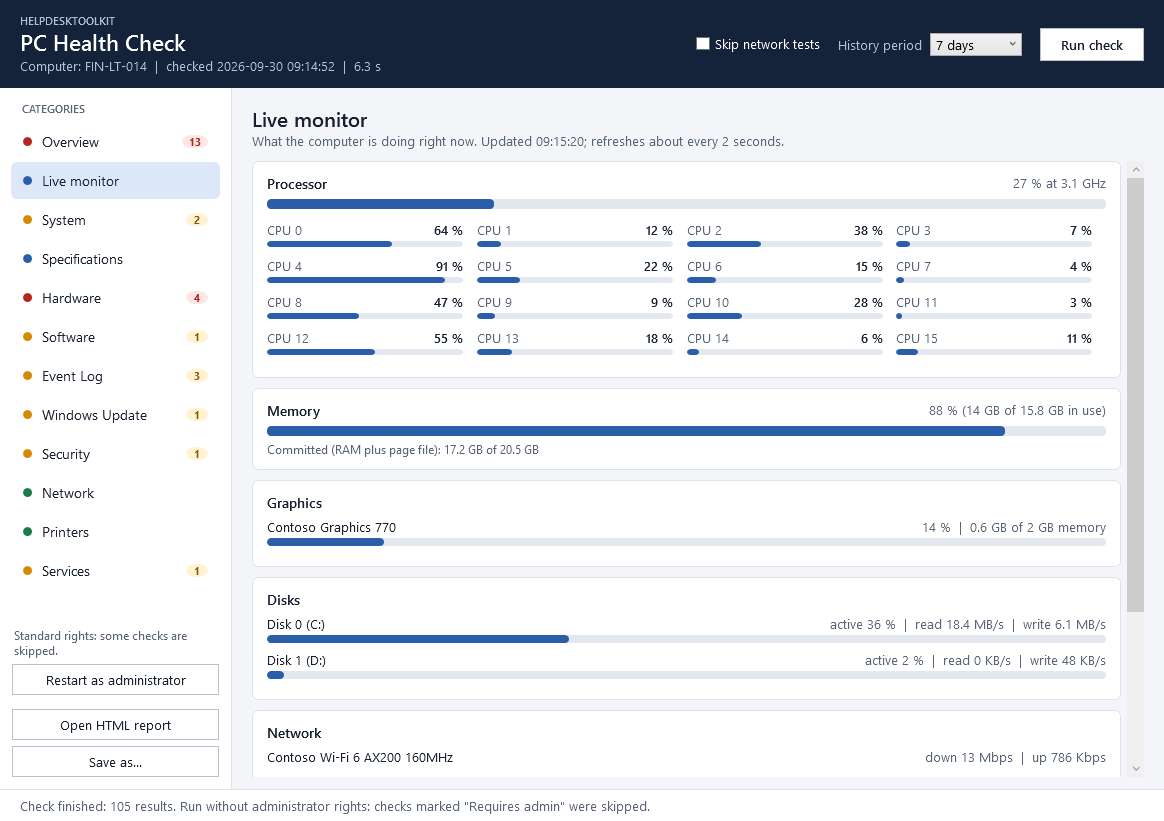
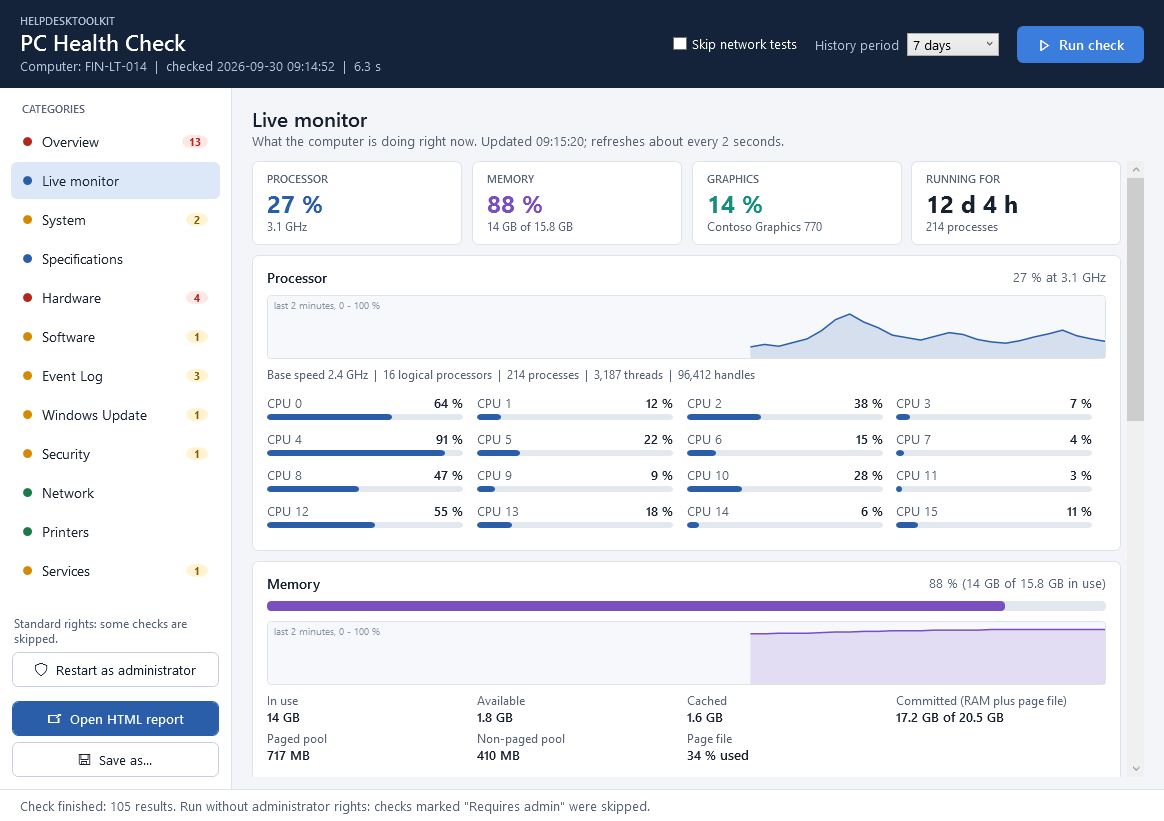
docs: describe the extended Live monitor and update the screenshots

diff --git a/README.hr.md b/README.hr.md
@@ -45,21 +45,39 @@ usporedbu.
 Stranica **Live monitor** u prozoru ne traži provjeru. Prikazuje što računalo radi u
 ovom trenutku i osvježava se otprilike svake dvije sekunde:
 
-- opterećenje svakog logičkog procesora, ukupno opterećenje i trenutni takt
-- zauzeta i rezervirana (committed) memorija
-- opterećenje i memorija grafičke kartice
-- aktivnost te brzina čitanja i pisanja svakog fizičkog diska
-- brzina preuzimanja i slanja svakog mrežnog adaptera
-- programi koji troše najviše procesorskog vremena
+- **Procesor:** ukupno opterećenje s grafom povijesti, takt na kojem stvarno radi
+  (uključujući turbo), opterećenje svakog logičkog procesora, broj procesa, niti i
+  handleova, vrijeme od pokretanja Windowsa
+- **Memorija:** zauzeće s grafom povijesti, dostupna, predmemorirana (cached) i
+  rezervirana (committed) memorija, kernel poolovi, zauzeće page filea
+- **Grafika:** opterećenje s grafom povijesti, opterećenje po engineu (3D, copy, video
+  decode, video encode), vlastita i dijeljena memorija
+- **Diskovi:** aktivnost, brzina čitanja i pisanja te red čekanja svakog fizičkog diska,
+  i zauzeti prostor svakog slova diska (mjerač postaje narančast i crven prema istim
+  pragovima kao provjera prostora na disku)
+- **Mreža:** brzina preuzimanja i slanja te brzina veze svakog adaptera
+- **Senzori:** temperatura, brzina ventilatora i potrošnja NVIDIA grafičkih kartica;
+  termalne zone i baterija na računalima koja ih imaju; temperatura, istrošenost i sati
+  rada diskova\*
+- **Programi:** oni koji troše najviše procesorskog vremena, najviše memorije te čitaju i
+  pišu najviše podataka
+
+\* traži administratorska prava.
 
 ![Stranica Live monitor](docs/screenshot-monitor.png)
 
+![Donja polovica stranice Live monitor](docs/screenshot-monitor-details.png)
+
 Isti podaci dostupni su u skriptama kroz `Get-PerformanceSnapshot`.
 
-Temperature, brzine ventilatora i naponi se ne prikazuju. Windows ih ne daje
-programima; alati koji ih prikazuju instaliraju vlastiti hardverski driver, što ovaj
-alat namjerno ne radi. Iznimka je temperatura diskova: ona je dio detalja diska koji se
-čitaju s administratorskim pravima.
+Odakle dolaze vrijednosti senzora i što namjerno nedostaje:
+
+- Vrijednosti NVIDIA grafičkih kartica čitaju se alatom `nvidia-smi`, koji instalira sam
+  NVIDIA driver. Pokreće se iz Windowsove mape `System32` punom putanjom. Kartice drugih
+  proizvođača nemaju usporediv alat, pa se za njih prikazuju samo opterećenje i memorija.
+- Temperatura procesora, ventilatori matične ploče i naponi se ne prikazuju. Windows ih
+  ne daje programima; alati koji ih prikazuju instaliraju vlastiti hardverski driver, što
+  ovaj alat namjerno ne radi.
 
 ## Administratorska prava
 

diff --git a/README.md b/README.md
@@ -43,21 +43,40 @@ comparison.
 The **Live monitor** page of the window needs no health check. It shows what the
 computer is doing right now and refreshes about every two seconds:
 
-- load of every logical processor, total load and current clock speed
-- memory in use and committed memory
-- load and memory of the graphics adapter
-- activity, read rate and write rate of every physical disk
-- download and upload rate of every network adapter
-- the programs that use the most processor time
+- **Processor:** total load with a history graph, the speed it really runs at (turbo
+  included), load of every logical processor, number of processes, threads and handles,
+  time since Windows started
+- **Memory:** share in use with a history graph, available, cached and committed memory,
+  kernel pools, page file usage
+- **Graphics:** load with a history graph, load per engine (3D, copy, video decode,
+  video encode), dedicated and shared memory
+- **Disks:** activity, read rate, write rate and queue length of every physical disk,
+  and the used space of every drive letter (the meter turns orange and red by the same
+  limits as the disk space check)
+- **Network:** download rate, upload rate and link speed of every adapter
+- **Sensors:** temperature, fan speed and power draw of NVIDIA graphics cards; thermal
+  zones and battery where the computer has them; temperature, wear and power-on hours of
+  the drives\*
+- **Programs:** the ones that use the most processor time, the most memory, and read and
+  write the most data
+
+\* needs administrator rights.
 
 ![The Live monitor page](docs/screenshot-monitor.png)
 
+![The lower half of the Live monitor page](docs/screenshot-monitor-details.png)
+
 The same data is available in scripts through `Get-PerformanceSnapshot`.
 
-Temperatures, fan speeds and voltages are not shown. Windows does not expose them to
-programs; tools that display them install a hardware driver of their own, which this
-tool deliberately does not do. The temperature of the drives is the exception: it is
-part of the drive details that are read with administrator rights.
+Where the sensor values come from, and what is missing on purpose:
+
+- The values of NVIDIA graphics cards are read with `nvidia-smi`, the status tool that
+  the NVIDIA driver itself installs. It is started from the Windows `System32` folder by
+  its full path. Cards of other makes have no comparable tool, so they show load and
+  memory only.
+- The temperature of the processor, the fans of the motherboard and voltages are not
+  shown. Windows does not expose them to programs; tools that display them install a
+  hardware driver of their own, which this tool deliberately does not do.
 
 ## Administrator rights
 
